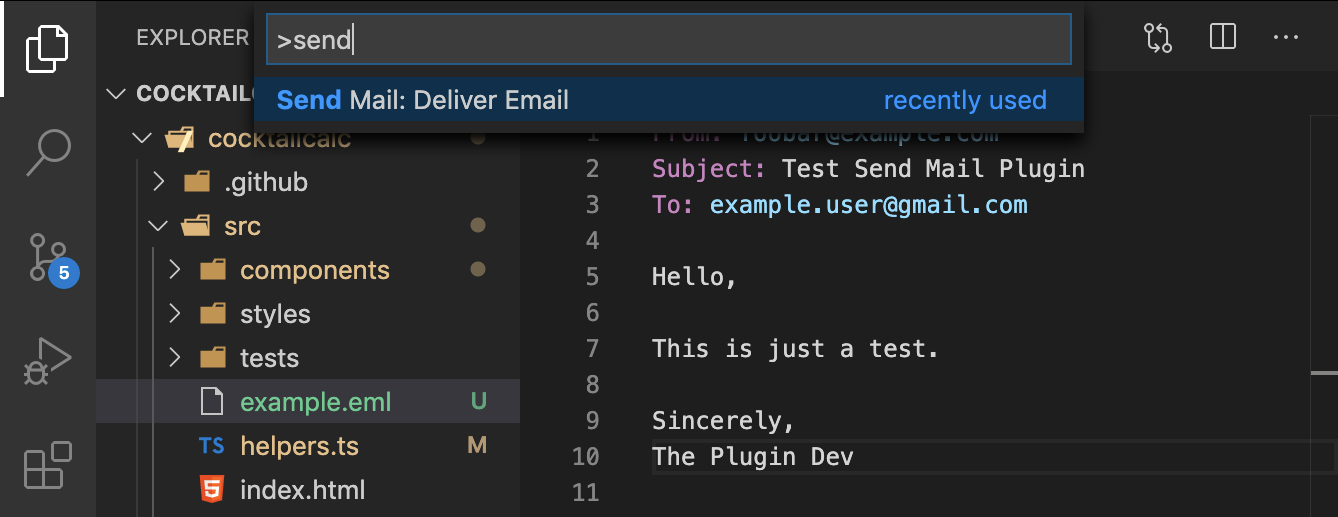
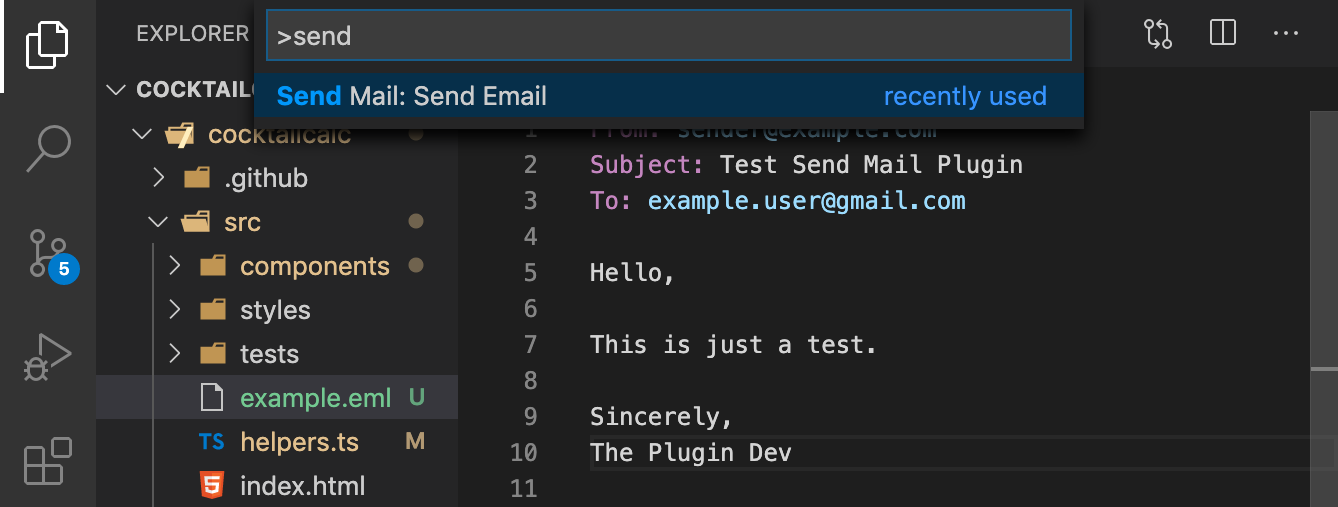
Deliver Email -> Send Email

diff --git a/README.md b/README.md
@@ -4,7 +4,7 @@ Visual Studio Code extension. This extension routes an email over the Internet t
 
 ## Features
 
-Send an EML to all specified recipients.
+Send an email to all specified recipients from VSCode.
 
 ![](images/command-palette.png)
 
@@ -14,7 +14,7 @@ This extension uses [sendmail](http://www.postfix.org/sendmail.1.html) for the a
 
 ## Known Issues
 
-* The file needs to be saved to the filesystem before you can use the "Send Email" command.
+* The file needs to be saved to the file system before you can use the "Send Email" command.
 
 ## Release Notes
 
